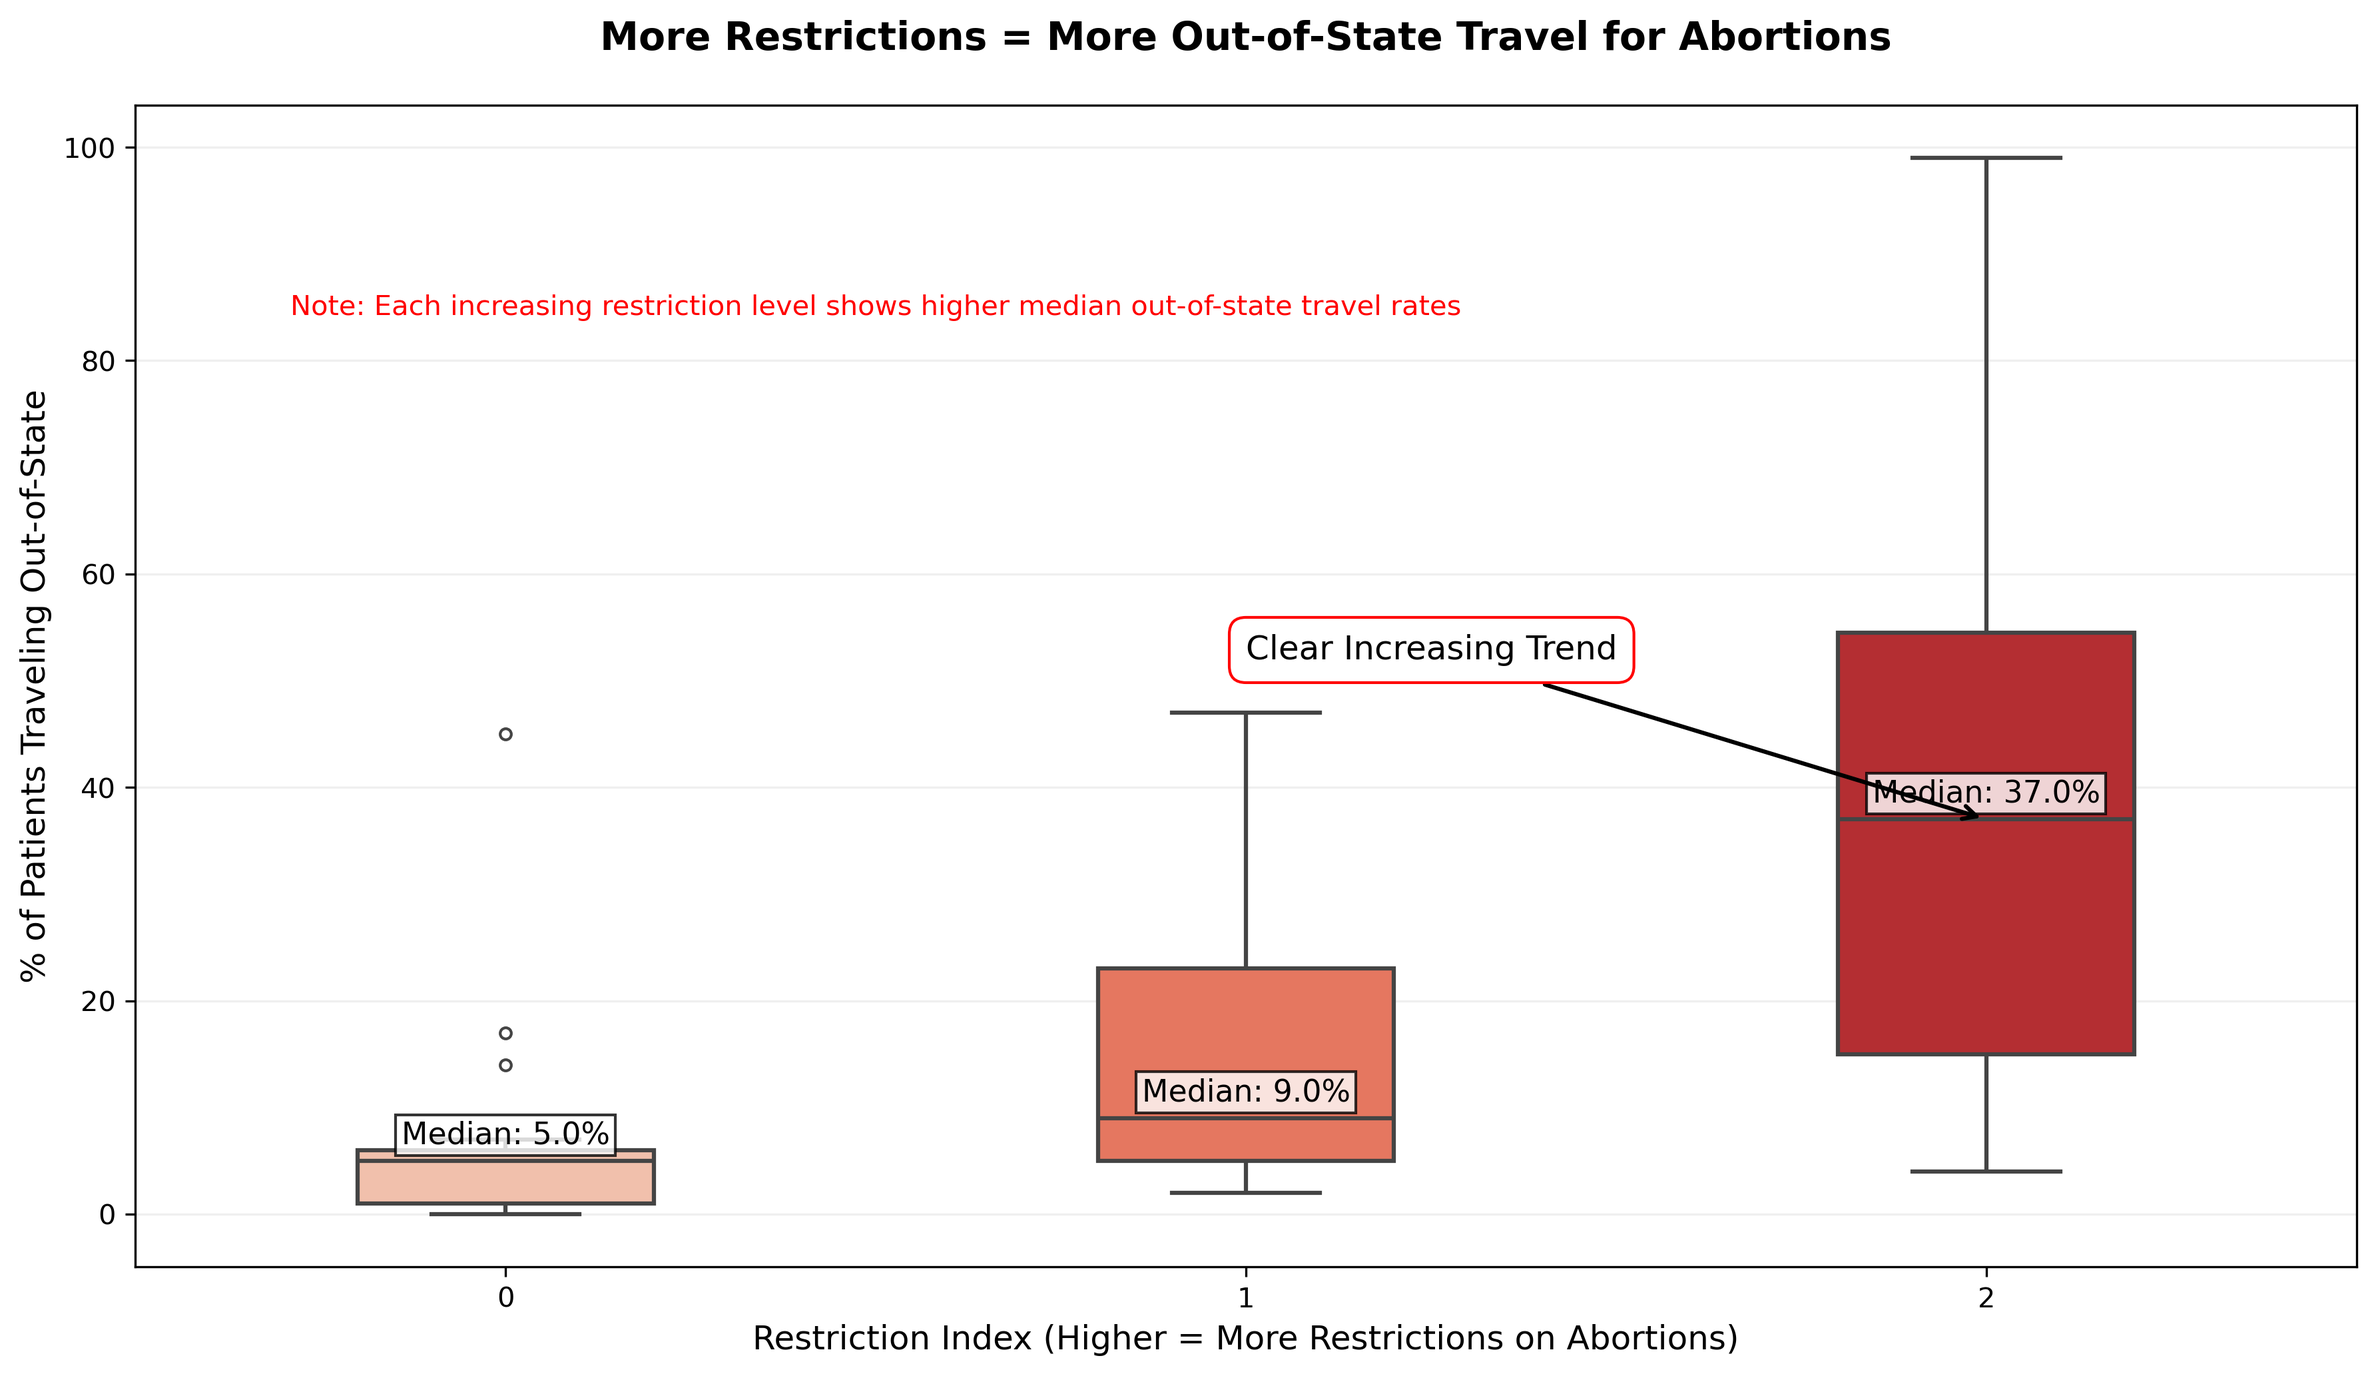
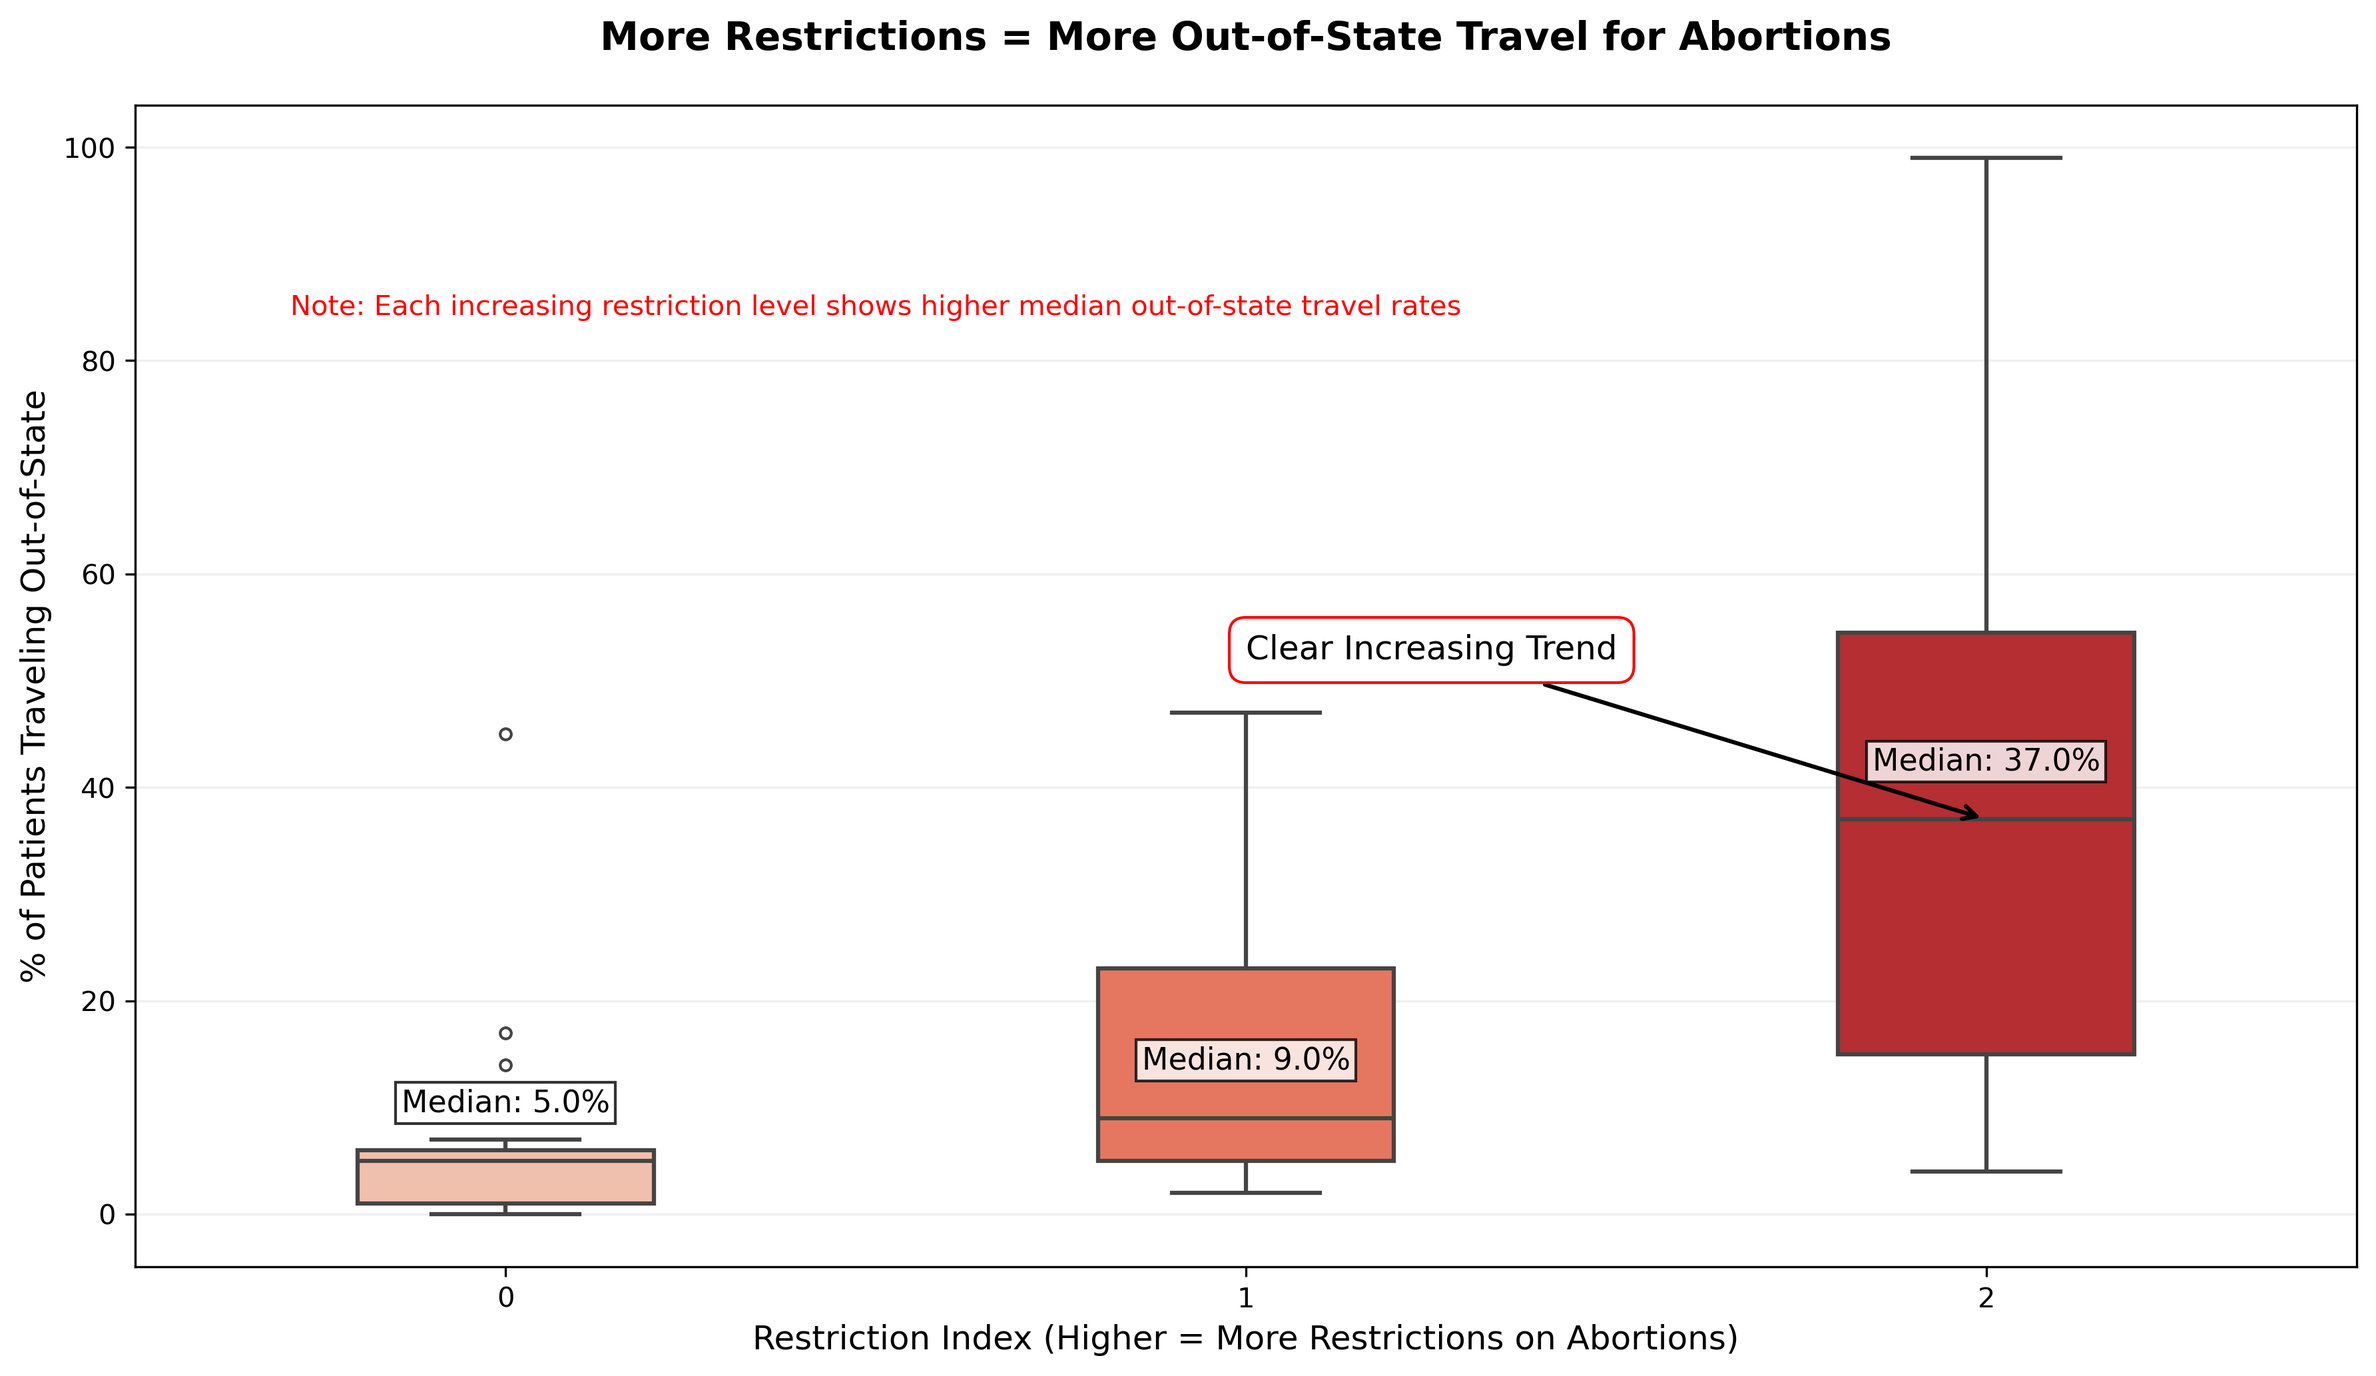
small edits

Changed region(s): [[0.4666, 0.7435, 0.5911, 0.8364], [0.7777, 0.5266, 0.9022, 0.6196], [0.1555, 0.7744, 0.28, 0.8674]]

diff --git a/index.html b/index.html
@@ -157,35 +157,28 @@
           <ul>
             <li><strong>Color Psychology (Score: 1.5 - Mostly Earnest)</strong>
               <ul>
-                <li>Used a red color gradient from light to dark to show increasing levels of restriction</li>
-                <li>Justification: The color progression in the box plots creates an intuitive visual hierarchy for showing abortion restriction levels. Red was chosen for its cultural association with restrictions/warnings, but doesn't distort the underlying values.</li>
-                <li>Alternative Options I Considered: A blue palette could have worked and been more neutral but less effective at communicating restriction severity.</li>
+                <li>In the box plot, I used a red color gradient from light to dark to show increasing levels of abortion restrictions. I used a different shade of red for each restriction index, with the shade of red getting darker as the restriction index increases.</li>
+                <li>Justification: The color progression in the box plots creates an intuitive visual hierarchy for showing abortion restriction levels. The viewer can use the color scheme as another way to understand which box plots are associated with certain abortion restriction levels. I choose red for its association with restrictions/warnings, but doesn't distort the underlying values.</li>
+                <li>Alternative Options I Considered: I was also considering other colors, such as a blue palette, or no colors at all. While this could have worked and been more neutral, I think it would be less effective at communicating restriction severity.</li>
               </ul>
             </li>
             
             <li><strong>Restriction Index Calculation (Score: 2 - Fully Earnest)</strong>
               <ul>
-                <li>Created a custom index using both clinic availability (% counties without clinic) and low clinic count.</li>
-                <li>Justification: This simple metric created from the raw dataset cleanly categorizes states while using fair and reasonable thresholds. The calculation for each state's restriction index is shown in the code, visual.py.</li>
-                <li>Alternative Options I Considered: A continuous scale, instead of indexes 0-2, would have shown more distinction. However, since I wanted to use a boxplot it would've made the boxplot comparison less clear, because there'd have to be so many more plots. Due to this, I decided a scale of 0-2 would be appropriate with 3 box plots in the visual as most effective.</li>
+                <li>I created a custom index using both clinic availability (% counties without clinic) and low clinic count that shows how strict a state's laws are on abortion. A lower index means less restrictions while higher index means more restrictions. I created this restriction index to be used as the X axis on the visual for the boxplots, as this would make it simpler to compare different levels of abortion restrictions with out of state travel rates. </li>
+                <li>Justification: This simple metric I created from the raw dataset cleanly categorizes states while using fair and reasonable thresholds. The calculation for each state's restriction index is shown in the visual.py code located in my Github repository.</li>
+                <li>Alternative Options I Considered: A continuous scale, instead of indexes 0-2, would have shown more distinction. However, since I wanted to use a boxplot it would've made the boxplot comparison less clear, because there'd have to be so many more plots. Due to this, I decided a scale of 0-2 would be appropriate, with 3 box plots in the visual as most effective.</li>
               </ul>
             </li>
         
             <li><strong>Trying to Make Outliers Less Apparent (Score: -0.5 - Slightly Deceptive)</strong>
               <ul>
-                <li>Showed all data points with transparency styling rather than default boxplot outliers styling.</li>
-                <li>Justification: While the boxplot is technically showing all data, making outliers transparent makes them slightly less visually apparent than the boxes/medians. This keeps the viewer's attention on the central trend.</li>
-                <li>Alternative Options I Considered: A regular boxplot, which would have made outliers more noticeable and draw attention away from the main trends in the box plots. I also considered a regular scatterplot, but this would have created visual noise.</li>
+                <li>In the box plots, I showed all outlier data points with transparency styling rather than default boxplot outliers styling.</li>
+                <li>Justification: While the boxplot is technically showing all data, making outliers transparent makes them slightly less apparent than the boxes/medians. This keeps the viewer's attention on the central trend.</li>
+                <li>Alternative Options I Considered: A regular boxplot, which would have made outliers more noticeable and draw attention away from the main trends in the box plots. I also considered a regular scatterplot, but this would have created a lot visual noise because there'd be too many points to show.</li>
               </ul>
             </li>
-        
-            <li><strong>Axis Labeling (Score: 2 - Fully Earnest)</strong>
-              <ul>
-                <li>Labeled restriction levels as "Least Restricted" to "Most Restricted"</li>
-                <li>Justification: These labels accurately reflect the custom restriction index and help viewers understand the ordinal scale correctly.</li>
-                <li>Alternative considered: Numeric labels, 0-2, would have been less helpful for helping the viewers interpret the graph.</li>
-              </ul>
-            </li>
+      
           </ul>
         </div>
       </section>
@@ -205,7 +198,7 @@
               <ul>
                 <li>Removed mid-range outliers (states having 20% - 40% of residents traveling out of state for abortions) for restriction levels 1-2, while keeping extreme cases (above 40%)</li>
                 <li>Justification: This highlights the clustering of most states at lower out of state travel rates while still showing important outliers. The filtering makes the weak correlation between restriction levels and % of patients traveling out of state more visually apparent.</li>
-                <li>Alternative: Showing all data points would have revealed more mid-range cases that slightly support the original proposition that more abortion restrictions leads to more out of state travel.</li>
+                <li>Alternative Options I Considered: Showing all data points would have revealed more mid-range cases that slightly support the original proposition that more abortion restrictions leads to more out of state travel.</li>
               </ul>
             </li>
         
@@ -214,23 +207,23 @@
               <ul>
                 <li>Used dashed red line to show the weak correlation in the scatterplot, which shows evidence opposing the proposition. The trend line indicates that increasing restriction level doesn't greatly increase the percentage of residents traveling out of state.</li>
                 <li>Justification: The styling draws attention to the weak positive trend in the scatterplot. The trend line is included to support that there is a weak correlation. The trend line was plotted excluding extreme outliers, making the slope less steep which shows a weaker correlation between the two factors and offers better evidence opposing the proposition.</li>
-                <li>Alternative: An alternative would be to not include this at all, but I believe that adding the trend line communicates the opposing view for the proposition more effectively.</li>
+                <li>Alternative Options I Considered: An alternative would be to not include this at all, but I believe that adding the trend line communicates the opposing view for the proposition more effectively.</li>
               </ul>
             </li>
         
-            <li><strong>Title Framing (Score: 1 - Earnest but Persuasive)</strong>
+            <li><strong>Choice of Title(Score: 1 - Earnest but Persuasive)</strong>
               <ul>
-                <li>The Title "Minimal Travel Despite More Abortion Restrictions" directly counters the original claim</li>
-                <li>Justification: The title is accurate based on the visual. The "despite" challenges the proposition rather than just presenting results.</li>
-                <li>Alternative: A neutral title like "Variation in Travel Rates Across Restriction Levels" would have been less persuasive.</li>
+                <li>The visualization's title "Minimal Travel Despite More Abortion Restrictions" directly counters the original claim, which sets the tone for this visual opposing the proposition. </li>
+                <li>Justification: The title is accurate based on the visual and challenges the proposition. The "despite" challenges the proposition rather than just presenting results.</li>
+                <li>Alternative Options I Considered: I was thinking of neutral titles like "Variation in Travel Rates Across Restriction Levels". However, a title like this would have been less persuasive.</li>
               </ul>
             </li>
         
-            <li><strong>Explanatory Annotation (Score: 1.5 - Mostly Earnest)</strong>
+            <li><strong>Annotation with Arrow To Draw Attention to Data Points(Score: 1.5 - Mostly Earnest)</strong>
               <ul>
-                <li>Added text stating "Majority of states...show similar travel rates"</li>
-                <li>Justification: This annotation accurately summarizes the main visual pattern and helps with interpretation. The positioning near the cluster back up the point. It also is mostly earnest because in the raw dataset majority of states are in the lower travel rate (under 20%), except for the cases of outliers, some of which were removed which is why this isn't fully earnest. </li>
-                <li>Alternative: When deciding whether or not to include this annotation, I thought removing this guidance would mean more open interpretation, however, I wanted to viewer to take away this visual as opposing the original claim.</li>
+                <li>I added text on the visual stating "Majority of states...show similar travel rates with an arrow pointing to a cluster of states who had medium to higher abortion rates that still had lower percentages of patients traveling out of state."</li>
+                <li>Justification: This annotation accurately summarizes the main visual pattern and helps with interpretation. The positioning near the cluster shows support opposing the proposition. It also is mostly earnest because in the raw dataset majority of states are in the lower travel rate (under 20%), except for the cases of outliers, some of which were removed which is why this isn't fully earnest. </li>
+                <li>Alternative Options I Considered: When deciding whether or not to include this annotation, I thought removing this guidance would mean more open interpretation, however, I wanted to viewer to take away this visual as opposing the original claim.</li>
               </ul>
             </li>
         

diff --git a/visual.py b/visual.py
@@ -625,21 +625,20 @@ ax = sns.boxplot(
     palette='Reds',
     width=0.4,
     fliersize=4,
-    linewidth=1.5  # Thicker lines for better visibility
+    linewidth=1.5
 )
 
 plt.title("More Restrictions = More Out-of-State Travel for Abortions", pad=20, fontsize=14, fontweight='bold')
 plt.xlabel("Restriction Index (Higher = More Restrictions on Abortions)", fontsize=12)
 plt.ylabel("% of Patients Traveling Out-of-State", fontsize=12)
 
-# Calculate and annotate median values
 medians = data.groupby('Restriction_Index')['% of residents obtaining abortions who traveled out of state for care, 2020'].median()
 for idx, med in enumerate(medians):
-    ax.text(idx, med+1, f"Median: {med:.1f}%", 
+    y_offset = 4 if idx == 0 else 4
+    ax.text(idx, med+y_offset, f"Median: {med:.1f}%", 
             ha='center', va='bottom', fontsize=11,
             bbox=dict(facecolor='white', alpha=0.8, pad=2))
 
-# Highlight trend with arrow annotation
 plt.annotate('Clear Increasing Trend',
              xy=(2, medians[2]), xytext=(1, medians[2]+15),
              arrowprops=dict(facecolor='black', arrowstyle='->', lw=1.5),
@@ -647,18 +646,17 @@ plt.annotate('Clear Increasing Trend',
              fontsize=12)
 
 
-# Add explanatory note
 plt.text(0.5, 85, "Note: Each increasing restriction level shows higher median out-of-state travel rates",
          ha='center', va='center', fontsize=10, color='red')
 
-plt.grid(axis='y', alpha=0.2)  # Light grid for better readability
+plt.grid(axis='y', alpha=0.2)
 plt.tight_layout()
 plt.savefig("vis_pro.png", dpi=300, bbox_inches='tight')
 plt.show()
 
 
 plt.figure(figsize=(12, 7))
-# Filter data and remove most outliers for index 1 and 2
+
 filtered_data = data[
     data['Restriction_Index'].isin([0, 1, 2]) & 
     ~(
@@ -667,14 +665,13 @@ filtered_data = data[
     ))
 ]
 
-# Keep specific important outliers that challenge the narrative
 important_outliers = data[
     (data['U.S. State'].isin(['Alabama', 'Mississippi', 'South Carolina'])) |
     (data['Restriction_Index'] == 0) & 
     (data['% of residents obtaining abortions who traveled out of state for care, 2020'] > 20)
 ]
 
-# Combine filtered data with important outliers
+
 plot_data = pd.concat([filtered_data, important_outliers]).drop_duplicates()
 
 sns.regplot(
@@ -688,7 +685,6 @@ sns.regplot(
     robust=True
 )
 
-# Set explicit x-axis limits and ticks
 plt.xlim(-0.5, 2.5)
 plt.xticks([0, 1, 2], ['0 (Least Restricted)', '1', '2 (Most Restricted)'])
 
@@ -698,13 +694,11 @@ plt.ylabel("% Patients Traveling Out-of-State", fontsize=12)
 plt.legend()
 plt.grid(True, alpha=0.3)
 
-# Highlight only the most important outliers
 key_outliers = plot_data[plot_data['% of residents obtaining abortions who traveled out of state for care, 2020'] > 20]
 for i, row in key_outliers.iterrows():
     x_offset = 0.15
     y_offset = 1
     
-    # Special adjustment for South Carolina
     if row['U.S. State'] == 'South Carolina':
         x_offset = 0.2
         y_offset = 1.5
@@ -720,7 +714,6 @@ for i, row in key_outliers.iterrows():
              fontsize=9,
              bbox=dict(facecolor='white', alpha=0.7, edgecolor='none', boxstyle='round,pad=0.2'))
 
-# Add annotation explaining the pattern
 plt.annotate('Majority of states with stricter abortion rules show similar travel rates\nas less restricted states',
              xy=(1, 10), xytext=(0.5, 30),
              arrowprops=dict(facecolor='black', shrink=0.05),
